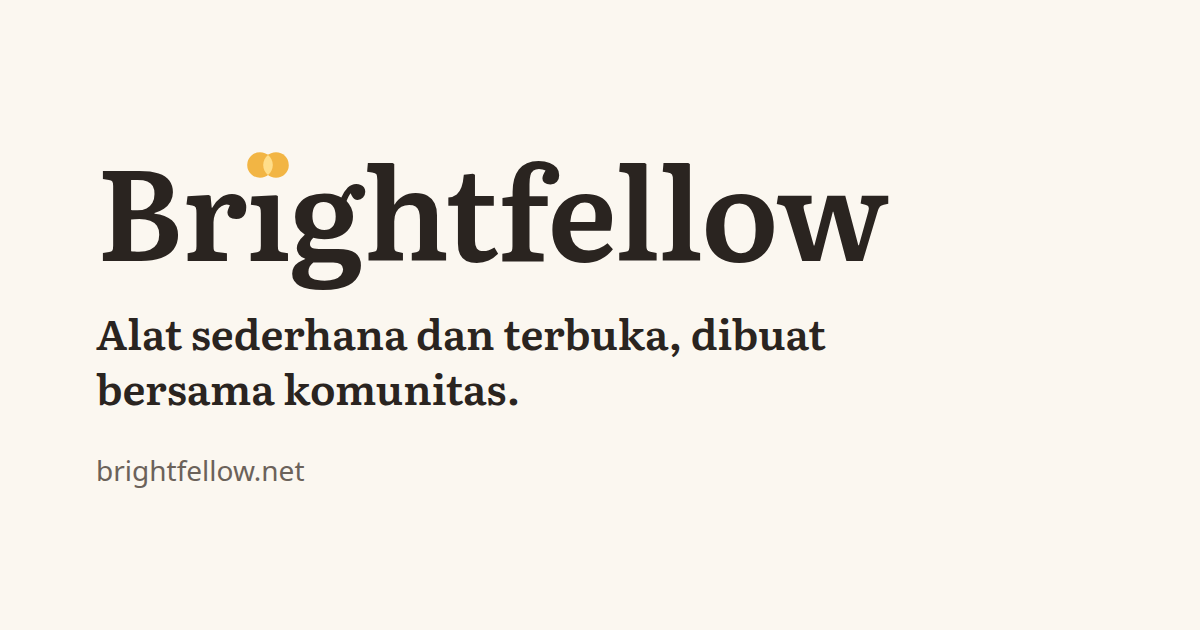
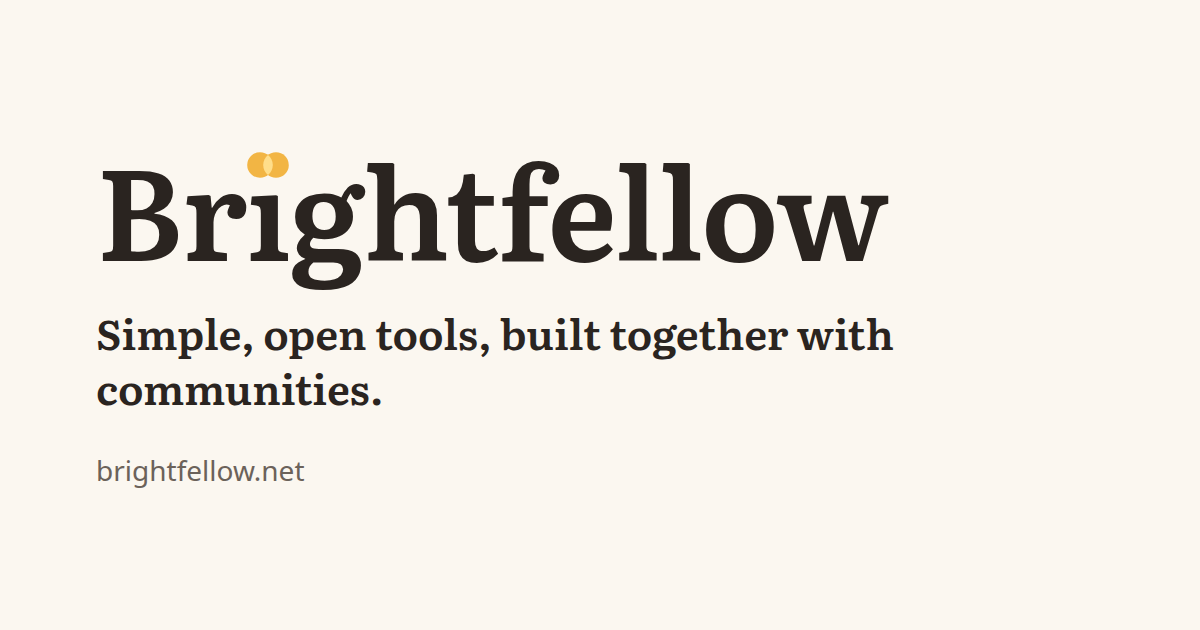
English default (#2)
* Make English the default language

English is now served at / and Indonesian under /id/ (previously
Indonesian at / and English under /en/).

- Move route files from src/pages/en/ to src/pages/id/ and swap the
  language each set renders
- defaultLang, getLang, and stripLang in src/i18n/ui.ts now use the /id/
  prefix; English is listed first in the language dropdown
- Sitemap default locale, 404 page, and social preview image are English
- README and the brief (CLAUDE.md section 5) describe the new default

* Redirect the old /en/ URLs to their new addresses

The site was already live with English under /en/. Now that English is at
/, generate static redirect pages for every former /en/ URL (fixed pages
plus tools and categories from the data files) so shared links and search
results keep working. The redirect pages are noindex and stay out of the
sitemap.

---------

Changed region(s): [[0.0617, 0.4825, 0.74, 0.6635]]

diff --git a/src/i18n/ui.ts b/src/i18n/ui.ts
@@ -1,19 +1,19 @@
-export const langs = ['id', 'en'] as const;
+export const langs = ['en', 'id'] as const;
 export type Lang = (typeof langs)[number];
-export const defaultLang: Lang = 'id';
+export const defaultLang: Lang = 'en';
 
 export const langMeta = {
-  id: { name: 'Bahasa Indonesia', short: 'ID', ogLocale: 'id_ID' },
   en: { name: 'English', short: 'EN', ogLocale: 'en_US' },
+  id: { name: 'Bahasa Indonesia', short: 'ID', ogLocale: 'id_ID' },
 } as const;
 
 export function getLang(url: URL): Lang {
-  return /^\/en(\/|$)/.test(url.pathname) ? 'en' : 'id';
+  return /^\/id(\/|$)/.test(url.pathname) ? 'id' : 'en';
 }
 
-/** Path without the language prefix, e.g. /en/tools/ -> /tools/ */
+/** Path without the language prefix, e.g. /id/tools/ -> /tools/ */
 export function stripLang(pathname: string): string {
-  return pathname.replace(/^\/en(?=\/|$)/, '') || '/';
+  return pathname.replace(/^\/id(?=\/|$)/, '') || '/';
 }
 
 /** Localized path for a language-neutral path like /tools/ */

diff --git a/README.md b/README.md
@@ -5,8 +5,8 @@ simple, open-source tools for communities and small organizations.
 
 It is a static site built with [Astro](https://astro.build). It ships almost no
 JavaScript (small scripts for the menus and the theme button), uses no trackers or cookies,
-and self-hosts its one web font (Literata). Indonesian is the default language at
-`/`; English lives under `/en/`, with the same English URL slugs.
+and self-hosts its one web font (Literata). English is the default language at
+`/`; Indonesian lives under `/id/`, with the same English URL slugs.
 
 Licensed under [Apache-2.0](LICENSE). See [NOTICE](NOTICE).
 
@@ -91,7 +91,7 @@ src/
   i18n/ui.ts                 shared interface strings, navigation lists
   site.ts                    contact email and GitHub URL
   views/                     one component per page, taking a `lang` prop
-  pages/ and pages/en/       thin route files that render the views
+  pages/ and pages/id/       thin route files that render the views (English at /, Indonesian at /id/)
   components/                wordmark, "two lights" mark, header, footer, lists
   styles/global.css          colour tokens (light and dark), type, layout
 public/                      favicon, social image (og.png), robots.txt
@@ -118,7 +118,7 @@ several categories, and moving a tool between categories never changes its URL.
 
    `status` is `pilot`, `available`, or `coming-soon`. `repository` may be `null`.
    The tool now appears in `/tools/`, its category pages, the Tools menu, and gets
-   a basic product page at `/tools/my-tool/` (and `/en/tools/my-tool/`).
+   a basic product page at `/tools/my-tool/` (and `/id/tools/my-tool/`).
 
 2. For a full product page, add `src/content/tool-pages/my-tool/id.md` and
    `en.md`. Copy an existing one; the fields are checked by
@@ -131,10 +131,22 @@ intro paragraphs in both languages), then tag tools with its slug. The
 `/for/<slug>/` pages, the menu, and the footer update automatically. A category
 with no tools is left out of the menu and the lists.
 
+### Change the default language
+
+The default language is `defaultLang` in `src/i18n/ui.ts`; it is served at `/`
+and the other language under its code (`/id/`). To swap them, change
+`defaultLang` and the prefix in `getLang`/`stripLang` there, move the route files
+between `src/pages/` and `src/pages/<code>/`, and update `defaultLocale` in
+`astro.config.mjs`.
+
+English used to live under `/en/`. `astro.config.mjs` still generates small
+redirect pages from those old URLs to the new ones (built from the tools and
+categories data files, so new entries are covered automatically).
+
 ### Add a page later (Consultation, Donate)
 
 Create `src/views/<Page>.astro`, add route files at `src/pages/<slug>/index.astro`
-and `src/pages/en/<slug>/index.astro`, add its label to both languages in
+and `src/pages/id/<slug>/index.astro`, add its label to both languages in
 `src/i18n/ui.ts`, and add it to `primaryNav` and/or `footerNav` there.
 
 ## Content rules
@@ -149,7 +161,7 @@ Every placeholder is visibly marked on the site. Current list:
 
 | Where | What | Status |
 |---|---|---|
-| `/privacy/`, `/en/privacy/` | The whole page is a draft with headings only. Server location, data export and deletion are "to be written". | Clearly marked as a draft on the page |
+| `/privacy/`, `/id/privacy/` | The whole page is a draft with headings only. Server location, data export and deletion are "to be written". | Clearly marked as a draft on the page |
 | Hosting (home, `/hosting/`, Liturgist app page) | Price of the hosted version | Shown as "coming soon" / "biaya akan diumumkan" |
 | `/tools/liturgist/` | The repository isn't public, so the page says "not published yet" and links to the GitHub organization. Set `repository` in `tools.json` when it's public. | Marked on the page |
 | `NOTICE` | Copyright holder written as "The Brightfellow contributors" | Confirm the wording |

diff --git a/CLAUDE.md b/CLAUDE.md
@@ -79,8 +79,8 @@ Build these pages:
 
 ## 5. Language
 
-- **Bahasa Indonesia is the default language**; English is secondary.
-- **ASK:** bilingual (ID + EN with a language switch) or Indonesian only for v1? Default if unanswered: bilingual, Indonesian at `/`, English under `/en/` with the same English slugs (e.g. `/tools/liturgist/` and `/en/tools/liturgist/`).
+- **English is the default language**, served at `/`; Bahasa Indonesia is the second language, under `/id/`. (Decided 2026-09-30; the original brief had Indonesian as the default.)
+- The site is bilingual with a language switch. Both versions use the same English slugs (e.g. `/tools/liturgist/` and `/id/tools/liturgist/`).
 - Write natural, friendly Indonesian, not literal translations of English marketing copy.
 
 ## 6. Content rules and constraints
